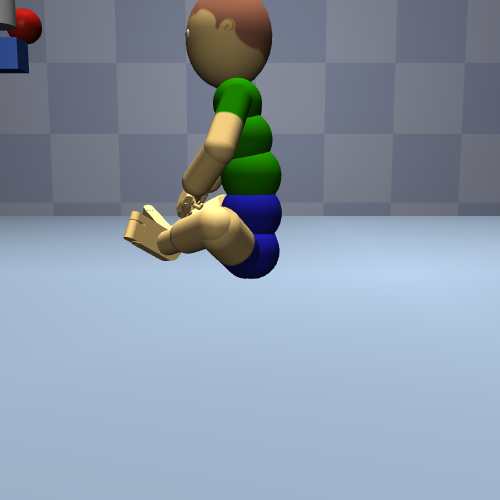
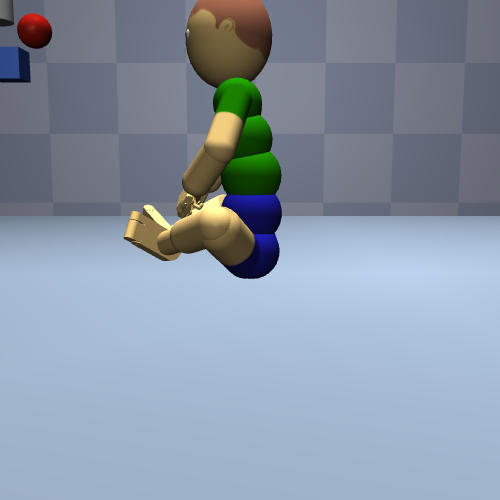
リセットのたびに物が傾いた体の視線で置かれる不具合に、既定切のスイッチ pin_before_spawn を足した
reset_model の settle 中に体が約10度後ろへ傾き、_spawn_toy がその視線で物を置き、1歩目の _pin_root で
体だけ戻っていた。True なら置く前に体を留める姿勢へ戻す。既定False（土台場面で変更前とハッシュ一致）。
段階2の場面で入れ、置き場所を左右18度・下15度に直した（静止中すべて10度より外）。
--no-verify：説明文検査の確認のため（reset_model の説明に今回の分岐を書き足した）。

Changed region(s): [[0.0, 0.0, 0.12, 0.18]]

diff --git a/run/world/toy_env.py b/run/world/toy_env.py
@@ -676,6 +676,9 @@ class ToySupineEnv(SupineMimoEnv):
                  #   {"amp_m": 振幅[m], "hz": 往復の周波数, "blink_hz": 点滅の周波数}。
                  #   実体は _flash_move_toy3（step()で _hold_toy3 の直後）。
                  toy3_flash_move=None,
+                 # 【2026-10-15・段階2】リセットでおもちゃを置く前に、体を留める姿勢へ
+                 #   戻すか。既定None→False＝従来どおり（1ビット不変）。reset_model参照。
+                 pin_before_spawn=None,
                  toy4=None, toy4_shape=None, toy4_radius=None, toy4_rgba=None,
                  toy4_dist=None, toy4_angle_deg=None, toy4_elev_deg=None,
                  # 【2026-08-21新設・F1-4h】おもちゃの垂直方向の角度[度]。既定None→0.0。
@@ -861,6 +864,7 @@ class ToySupineEnv(SupineMimoEnv):
         self._orienting_habituation = (None if orienting_habituation is None
                                        else bool(orienting_habituation))
         self._orienting_external_only = bool(orienting_external_only)
+        self._pin_before_spawn = bool(pin_before_spawn)
         self._fence_half_x = float(fence_half_x)
         self._fence_half_y = float(fence_half_y)
         self._fence_post_w = float(fence_post_w)
@@ -2255,6 +2259,16 @@ class ToySupineEnv(SupineMimoEnv):
         apply_eye_centering_spring(self.model, self.data,
                                    vertical_deg=self._eye_rest_vertical_deg,
                                    enabled=self._eye_centering)
+        # 【2026-10-15・段階2】体を留める場面では、上の settle のあいだ体が自由に
+        #   傾き（座位12ヶ月の場面で根が約10度後ろへ）、おもちゃはその傾いた視線を
+        #   基準に置かれ、次の step() の _pin_root で体だけ元へ戻る＝物が視線から
+        #   約10度ずれた所に残っていた（実測：リセット直後とstep1で頭の向きが10.4度違う、
+        #   目の関節は1度未満しか動かない）。2026-08-20 に scene_io.apply_state で直した
+        #   toy2 の件と同じ仲間で、こちらは**リセットのたび**に起きる。
+        #   pin_before_spawn=True のときだけ、置く前に体を留める姿勢へ戻す（既定False＝従来どおり）。
+        if self._pin_before_spawn:
+            self._pin_root()
+            mujoco.mj_forward(self.model, self.data)
         mujoco.mj_forward(self.model, self.data)   # 眼のカメラ姿勢を更新してから配置
         self._spawn_toy()                  # 落ち着いた後の肩位置を見て配置
         self._glow_until = -1e9            # 点灯の余韻を持ち越さない

diff --git a/run/scene_tools/make_stage2_scene.py b/run/scene_tools/make_stage2_scene.py
@@ -33,13 +33,12 @@ from run.trainer import close_env                          # noqa: E402
 
 BASE = "土台_座位12ヶ月_壁あり_胡坐_8択_消失発話_2026-09-15"
 XML = "MIMo/mimoEnv/assets/benchmarkv2_scene_f4toys.xml"
-ANGLE_DEG = 12.0          # ボールとコップを視線の正面から左右に振る角度（片側）
-TOY3_UP_DEG = -12.0       # 妨害物を正面から上下へ振る角度（負＝下）
-# 【なぜ下か・2026-10-15実測】リセット直後の1歩目で視線がひとりでに約10度上へ跳ぶ（変更前からの
-#   挙動、原因は未調査）。物の定位置は跳ぶ前の視線で決まるので、上に12度置くと跳んだ後の視線から
-#   4〜9度＝最初から「見ている」線（10度）の内側に入り、仕様書の条件A（黙っている間、妨害物を
-#   見ている時間が最長）が置き場所だけで成り立ってしまう。下に12度置くと静止中の距離は
-#   ボール14度・コップ19度・妨害物23度（脳なし・10秒の実測）。上28度も試したが8〜10度だった。
+ANGLE_DEG = 18.0          # ボールとコップを視線の正面から左右に振る角度（片側）
+TOY3_UP_DEG = -15.0       # 妨害物を正面から上下へ振る角度（負＝下）
+# 【2026-10-15実測】リセットの落ち着かせ中に体が約10度後ろへ傾き、物がその傾いた視線を基準に
+#   置かれていた（toy_env.reset_model の pin_before_spawn の説明）。この場面では pin_before_spawn を
+#   入れて本当の視線を基準に置く。修正前は上12度の妨害物が静止中4〜9度＝最初から「見ている」線
+#   （10度）の内側に入り、仕様書の条件Aが置き場所だけで成り立っていた。
 DIST = 0.30               # 目から物まで[m]（土台と同じ）
 FLASH = {"amp_m": 0.03, "hz": 0.5, "blink_hz": 2.0}   # 3cm＝約5.7度の左右往復・2Hz点滅
 NAMES = {+1: "段階2_3物体_ボール左_2026-10-15", -1: "段階2_3物体_ボール右_2026-10-15"}
@@ -79,6 +78,7 @@ def make_scene(side):
                  "angle_deg": TOY3_UP_DEG, "elev_deg": 0.0,
                  "flash_move": dict(FLASH), "rest_from_state": True}
     w["parent_labeling"] = dict(w["parent_labeling"], enabled=False)
+    w["pin_before_spawn"] = True              # 物を本当の視線を基準に置く（上の注）
     w["parent_intervene"] = False             # 見失っても親が差し出し直さない（物が視線へ寄ってくると測れない）
     w["word_test"] = {"schedule": [{"t": 4.0, "word": "ボールはどこ？"}]}
     b = sc["body"]

diff --git a/run/scene_tools/scene_io.py b/run/scene_tools/scene_io.py
@@ -234,6 +234,10 @@ def default_scene(name="無題"):
             #   実体は E/scripts/parent_labeling.WordSchedule。
             #   設計：F/docs/設計_F1-4h_....md 技術付録3・4節。
             "word_test": None,
+            # 【2026-10-15新設・段階2】リセットでおもちゃを置く前に、体を留める姿勢へ
+            #   戻す。既定False＝従来どおり（1ビット不変）。実体は toy_env.reset_model の
+            #   pin_before_spawn。体を留める場面でだけ意味がある。
+            "pin_before_spawn": False,
             # 床の物理。注意体の滑り方が変わるので実験条件として効く
             "floor_roll": None,          # None なら環境の既定
             "floor_condim": None,
@@ -837,6 +841,7 @@ def build(scene, orient=None, vor=True, seed=0, verbose=False, actuation_model=N
             #   WordSchedule(schedule=None)相当になり1ビットも変わらない
             #   （parent_labelingと同じkwargs直渡しの流儀）。
             word_test=(dict(w["word_test"]) if w["word_test"] else None),
+            pin_before_spawn=bool(w.get("pin_before_spawn", False)),
             plain=bool(w["plain"]),
             static_tex=bool(w["static_tex"]),
             backdrop=w.get("backdrop"),
